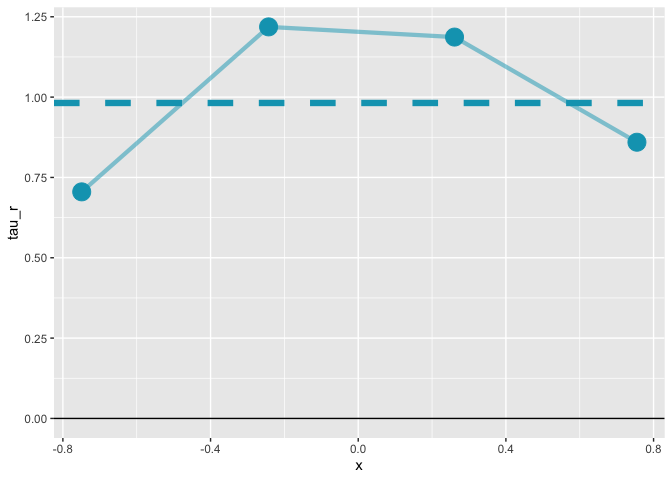
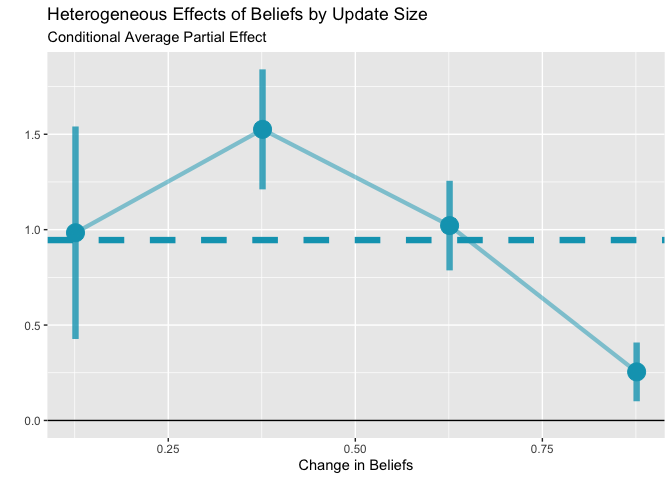
quality of life improvements to docs
add install from tar.gz to README

diff --git a/README.md b/README.md
@@ -6,8 +6,8 @@
 # lls: Local Least Squares for Information Provision Experiments
 
 **If you’re reading this, you’ve found the pre-release version of this
-package. Use at your own risk, and please check this repo frequently for
-updates. Please open an issue if you find a bug!**
+package. Please check this repo frequently for updates. Please open an
+issue if you find a bug!**
 
 <!-- badges: start -->
 
@@ -21,7 +21,24 @@ there is strong dependence between belief updating and belief effects.
 
 ## Installation
 
-You can install the most recent version of `lls` from GitHub with:
+### PRE-RELEASE
+
+You can directly install `lls` from the source code (i.e. the contents
+of this repo). To do so, save the `lls` folder somewhere on your
+computer and then you can install from the source with
+`install.packages`.
+
+The instructions to install from `lls_<version>.tar.gz` are identical.
+
+``` r
+# if installing from the source **folder**
+install.packages("path/to/lls", repos = NULL, type = 'source')
+# or more simply from the .tar.gz
+install.packages("path/to/lls_<version>.tar.gz")
+```
+
+When the package is live, you can install the most recent version of
+`lls` from GitHub with:
 
 ``` r
 devtools::install_github("dballaelliott/lls")
@@ -84,12 +101,12 @@ print(est)
 #> 
 #> Average Partial Effect (APE):
 #>   Estimate:   0.9454
-#>   Std. Err:   0.1166
-#>   t-value:    8.1096
+#>   Std. Err:   0.1016
+#>   t-value:    9.3085
 #>   p-value:   <0.001
 #> 
-#> Normal CI (95%): [ 0.7169,  1.1739]
-#> Percentile CI (95%): [ 0.7435,  1.1968]
+#> Normal CI (95%): [ 0.7464,  1.1445]
+#> Percentile CI (95%): [ 0.7184,  1.1205]
 #> 
 #> Estimation Details:
 #>   Bandwidth:   0.0500
@@ -106,7 +123,7 @@ functions.
 plot(est)
 ```
 
-<img src="man/figures/README-unnamed-chunk-4-1.png" width="100%" />
+<img src="man/figures/README-unnamed-chunk-5-1.png" width="100%" />
 
 ## Citation
 